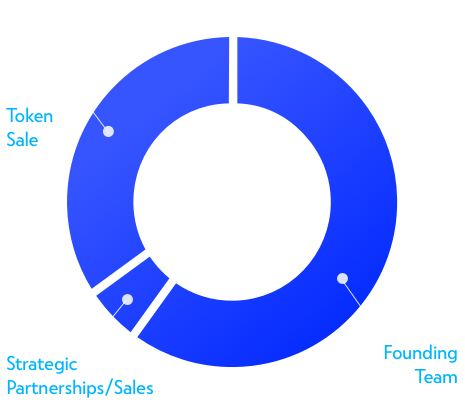
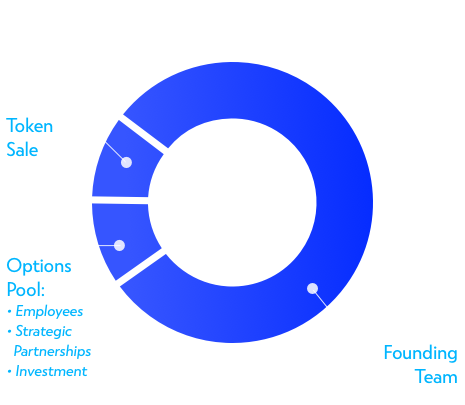
Updates
Change of images
- Token graphs updated
- Brought back support email chat
- Change to dual token graphs

Changed region(s): [[0.0, 0.0889, 0.8731, 0.9778], [0.0, 0.2667, 0.1204, 0.3852], [0.6624, 0.6815, 0.6925, 0.7407]]

diff --git a/index.html b/index.html
@@ -19,7 +19,7 @@
 
 
 <!-- Start of leapwithalicehelp Zendesk Widget script -->
-<!-- <script>/*<![CDATA[*/window.zE||(function(e,t,s){var n=window.zE=window.zEmbed=function(){n._.push(arguments)}, a=n.s=e.createElement(t),r=e.getElementsByTagName(t)[0];n.set=function(e){ n.set._.push(e)},n._=[],n.set._=[],a.async=true,a.setAttribute("charset","utf-8"), a.src="https://static.zdassets.com/ekr/asset_composer.js?key="+s, n.t=+new Date,a.type="text/javascript",r.parentNode.insertBefore(a,r)})(document,"script","1c8ee14c-d4fe-44c5-a11e-dd582afc207c");/*]]>*/</script> -->
+<script>/*<![CDATA[*/window.zE||(function(e,t,s){var n=window.zE=window.zEmbed=function(){n._.push(arguments)}, a=n.s=e.createElement(t),r=e.getElementsByTagName(t)[0];n.set=function(e){ n.set._.push(e)},n._=[],n.set._=[],a.async=true,a.setAttribute("charset","utf-8"), a.src="https://static.zdassets.com/ekr/asset_composer.js?key="+s, n.t=+new Date,a.type="text/javascript",r.parentNode.insertBefore(a,r)})(document,"script","1c8ee14c-d4fe-44c5-a11e-dd582afc207c");/*]]>*/</script>
 <!-- End of leapwithalicehelp Zendesk Widget script -->
 
 
